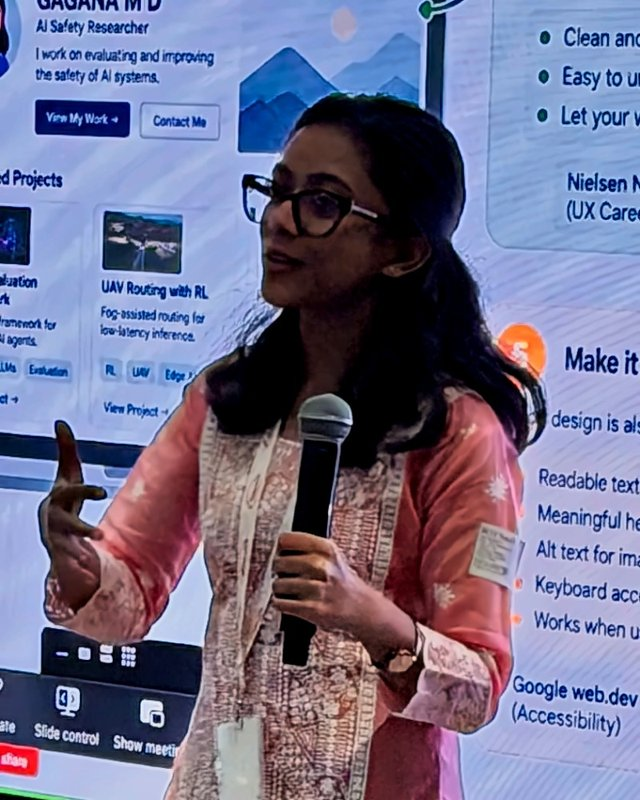
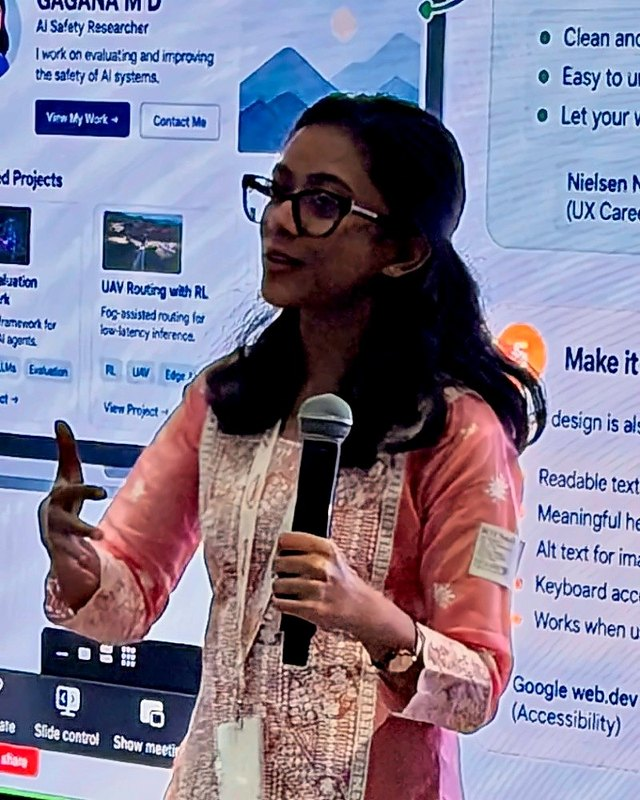
Brighten homepage photo; simplify menu and sub-links
Claude-Session: https://claude.ai/code/session_01CNNU6yGmdt66vtiWTGxDHy

diff --git a/index.html b/index.html
@@ -42,7 +42,6 @@
       <a href="research.html">Research</a>
       <a href="writing.html">Writing</a>
       <a href="about.html">About</a>
-      <a href="cv.pdf">CV</a>
       <span class="nav-sep" aria-hidden="true"></span>
       <a href="speaking.html">Speaking</a>
       <a href="consulting.html">Consulting</a>
@@ -76,7 +75,7 @@
 
   <h3 class="group-title">Research</h3>
   <ul class="roles overview">
-    <li><time>Sep 2026</time><div><strong><a href="detection-is-not-containment.html">Detection Is Not Containment</a> · first author</strong><span>A monitor caught a harmful agent action one step before the last point where it could still be stopped, and meaning-preserving renames broke 4 of 12 decisions. Preregistered, with public code. <a class="text-link" href="detection-is-not-containment.html">Case study</a> · <a class="text-link" href="https://github.com/GaganaMD/detection-is-not-containment">Code</a></span></div></li>
+    <li><time>Sep 2026</time><div><strong><a href="detection-is-not-containment.html">Detection Is Not Containment</a> · first author</strong><span>A monitor caught a harmful agent action one step before the last point where it could still be stopped, and meaning-preserving renames broke 4 of 12 decisions. Preregistered, with public code.</span></div></li>
     <li><time>Oct 2026</time><div><strong><a href="research.html#collusion">Collusion among LLM agents</a> · two team reports</strong><span>Led a covert monitor-swap study (colluding agents never noticed the swap), and ran probing and steering on a pricing LLM that showed no punishment of undercutting.</span></div></li>
     <li><time>May – Oct 2026</time><div><strong><a href="research.html#world-models">LLM-generated world models</a> · PRISM fellowship</strong><span>Main code contributor. 134 of 135 generated games ran, but most didn't encode the intended structure. Accepted at the NeurIPS 2026 NEmo workshop.</span></div></li>
     <li><time>2025</time><div><strong><a href="research.html#biornet">Hyperspectral BiorNet</a> · first author</strong><span>A wavelet framework for hyperspectral unmixing, from before I moved into AI safety. Peer-reviewed, IEEE InGARSS 2025.</span></div></li>
@@ -90,7 +89,7 @@
 
   <h3 class="group-title">Working with others</h3>
   <ul class="roles overview">
-    <li><time>How I work</time><div><strong>Most of my research is team research</strong><span>I co-led a three-person sprint team, led one experiment inside a larger project, supported two other fellowship teams, and wrote a response to the three public reviews of my sprint report. <a class="text-link" href="detection-is-not-containment.html#reviews">See the reviews</a></span></div></li>
+    <li><time>How I work</time><div><strong>Most of my research is team research</strong><span>I co-led a three-person sprint team, led one experiment inside a larger project, supported two other fellowship teams, and wrote a response to the three public reviews of my sprint report.</span></div></li>
   </ul>
 
   <h3 class="group-title">Experience</h3>
@@ -100,7 +99,7 @@
     <li><time>May – Jul 2026</time><div><strong>BaseThesis Labs, Bengaluru</strong><span>AI Safety Researcher: agent evaluation and benchmarking</span></div></li>
     <li><time>Jan – Aug 2025</time><div><strong>Indian Institute of Science, DREAM Lab</strong><span>Research Intern: drone and edge–fog co-scheduling</span></div></li>
   </ul>
-  <p class="section-more"><a href="research.html#publications">All papers and reports</a> · <a href="about.html#experience">Full experience</a> · <a href="consulting.html">Evaluation reviews</a></p>
+  <p class="section-more"><a href="research.html">See all research, papers and code →</a></p>
 </section>
 <section class="contact" aria-labelledby="contact-title"><div class="wrap contact-inner"><p class="eyebrow">Contact</p><h2 id="contact-title">Get in touch</h2><p>I'm looking for a funded research fellowship or research engineering role in empirical AI safety. If you work on agent monitoring, control evaluations or multi-agent safety, I'd like to hear what you're testing. A short note on the problem and where it's stuck is the best first email.</p><div class="contact-actions"><a href="mailto:gaganaaa.dev@gmail.com">gaganaaa.dev@gmail.com <span aria-hidden="true">↗</span></a><a href="https://github.com/GaganaMD">GitHub <span aria-hidden="true">↗</span></a><a href="https://www.linkedin.com/in/gaganamd/">LinkedIn <span aria-hidden="true">↗</span></a><a href="https://orcid.org/0009-0003-2594-1026">ORCID <span aria-hidden="true">↗</span></a></div></div></section>
 </main>
@@ -111,6 +110,7 @@
       <a href="https://github.com/GaganaMD" rel="me noopener">GitHub</a>
       <a href="https://www.linkedin.com/in/gaganamd/" rel="me noopener">LinkedIn</a>
       <a href="https://orcid.org/0009-0003-2594-1026" rel="me noopener">ORCID</a>
+      <a href="cv.pdf">CV</a>
       <a href="#main">Back to top ↑</a>
     </nav>
   </div>

diff --git a/research.html b/research.html
@@ -41,7 +41,6 @@
       <a href="research.html" aria-current="page">Research</a>
       <a href="writing.html">Writing</a>
       <a href="about.html">About</a>
-      <a href="cv.pdf">CV</a>
       <span class="nav-sep" aria-hidden="true"></span>
       <a href="speaking.html">Speaking</a>
       <a href="consulting.html">Consulting</a>
@@ -55,11 +54,9 @@
   <h1 id="page-title">Monitoring, evaluation and what evidence can support.</h1>
   <p class="lede">Most of my work asks what we can justifiably conclude about an AI agent from the evidence we actually have, and whether that evidence arrives in time to act on.</p>
   <nav aria-label="On this page"><ul class="jump">
-    <li><a href="#direction">Direction</a></li>
     <li><a href="#projects-main">Projects</a></li>
     <li><a href="#publications">Papers and reports</a></li>
     <li><a href="#code">Code</a></li>
-    <li><a href="#smaller">Earlier work</a></li>
   </ul></nav>
 </section>
 
@@ -518,6 +515,7 @@
       <a href="https://github.com/GaganaMD" rel="me noopener">GitHub</a>
       <a href="https://www.linkedin.com/in/gaganamd/" rel="me noopener">LinkedIn</a>
       <a href="https://orcid.org/0009-0003-2594-1026" rel="me noopener">ORCID</a>
+      <a href="cv.pdf">CV</a>
       <a href="#main">Back to top ↑</a>
     </nav>
   </div>

diff --git a/detection-is-not-containment.html b/detection-is-not-containment.html
@@ -41,7 +41,6 @@
       <a href="research.html">Research</a>
       <a href="writing.html">Writing</a>
       <a href="about.html">About</a>
-      <a href="cv.pdf">CV</a>
       <span class="nav-sep" aria-hidden="true"></span>
       <a href="speaking.html">Speaking</a>
       <a href="consulting.html">Consulting</a>
@@ -189,6 +188,7 @@ python -m hermes_phase_f.pilot.validate_phase_f</code></pre>
       <a href="https://github.com/GaganaMD" rel="me noopener">GitHub</a>
       <a href="https://www.linkedin.com/in/gaganamd/" rel="me noopener">LinkedIn</a>
       <a href="https://orcid.org/0009-0003-2594-1026" rel="me noopener">ORCID</a>
+      <a href="cv.pdf">CV</a>
       <a href="#main">Back to top ↑</a>
     </nav>
   </div>

diff --git a/about.html b/about.html
@@ -41,7 +41,6 @@
       <a href="research.html">Research</a>
       <a href="writing.html">Writing</a>
       <a href="about.html" aria-current="page">About</a>
-      <a href="cv.pdf">CV</a>
       <span class="nav-sep" aria-hidden="true"></span>
       <a href="speaking.html">Speaking</a>
       <a href="consulting.html">Consulting</a>
@@ -152,6 +151,7 @@
       <a href="https://github.com/GaganaMD" rel="me noopener">GitHub</a>
       <a href="https://www.linkedin.com/in/gaganamd/" rel="me noopener">LinkedIn</a>
       <a href="https://orcid.org/0009-0003-2594-1026" rel="me noopener">ORCID</a>
+      <a href="cv.pdf">CV</a>
       <a href="#main">Back to top ↑</a>
     </nav>
   </div>

diff --git a/consulting.html b/consulting.html
@@ -41,7 +41,6 @@
       <a href="research.html">Research</a>
       <a href="writing.html">Writing</a>
       <a href="about.html">About</a>
-      <a href="cv.pdf">CV</a>
       <span class="nav-sep" aria-hidden="true"></span>
       <a href="speaking.html">Speaking</a>
       <a href="consulting.html" aria-current="page">Consulting</a>
@@ -107,6 +106,7 @@
       <a href="https://github.com/GaganaMD" rel="me noopener">GitHub</a>
       <a href="https://www.linkedin.com/in/gaganamd/" rel="me noopener">LinkedIn</a>
       <a href="https://orcid.org/0009-0003-2594-1026" rel="me noopener">ORCID</a>
+      <a href="cv.pdf">CV</a>
       <a href="#main">Back to top ↑</a>
     </nav>
   </div>

diff --git a/speaking.html b/speaking.html
@@ -41,7 +41,6 @@
       <a href="research.html">Research</a>
       <a href="writing.html">Writing</a>
       <a href="about.html">About</a>
-      <a href="cv.pdf">CV</a>
       <span class="nav-sep" aria-hidden="true"></span>
       <a href="speaking.html" aria-current="page">Speaking</a>
       <a href="consulting.html">Consulting</a>
@@ -140,6 +139,7 @@
       <a href="https://github.com/GaganaMD" rel="me noopener">GitHub</a>
       <a href="https://www.linkedin.com/in/gaganamd/" rel="me noopener">LinkedIn</a>
       <a href="https://orcid.org/0009-0003-2594-1026" rel="me noopener">ORCID</a>
+      <a href="cv.pdf">CV</a>
       <a href="#main">Back to top ↑</a>
     </nav>
   </div>

diff --git a/writing.html b/writing.html
@@ -41,7 +41,6 @@
       <a href="research.html">Research</a>
       <a href="writing.html" aria-current="page">Writing</a>
       <a href="about.html">About</a>
-      <a href="cv.pdf">CV</a>
       <span class="nav-sep" aria-hidden="true"></span>
       <a href="speaking.html">Speaking</a>
       <a href="consulting.html">Consulting</a>
@@ -131,6 +130,7 @@
       <a href="https://github.com/GaganaMD" rel="me noopener">GitHub</a>
       <a href="https://www.linkedin.com/in/gaganamd/" rel="me noopener">LinkedIn</a>
       <a href="https://orcid.org/0009-0003-2594-1026" rel="me noopener">ORCID</a>
+      <a href="cv.pdf">CV</a>
       <a href="#main">Back to top ↑</a>
     </nav>
   </div>

diff --git a/404.html b/404.html
@@ -43,7 +43,6 @@
       <a href="research.html">Research</a>
       <a href="writing.html">Writing</a>
       <a href="about.html">About</a>
-      <a href="cv.pdf">CV</a>
       <span class="nav-sep" aria-hidden="true"></span>
       <a href="speaking.html">Speaking</a>
       <a href="consulting.html">Consulting</a>
@@ -60,6 +59,7 @@
       <a href="https://github.com/GaganaMD" rel="me noopener">GitHub</a>
       <a href="https://www.linkedin.com/in/gaganamd/" rel="me noopener">LinkedIn</a>
       <a href="https://orcid.org/0009-0003-2594-1026" rel="me noopener">ORCID</a>
+      <a href="cv.pdf">CV</a>
       <a href="#main">Back to top ↑</a>
     </nav>
   </div>

diff --git a/projects.html b/projects.html
@@ -43,7 +43,6 @@
       <a href="research.html">Research</a>
       <a href="writing.html">Writing</a>
       <a href="about.html">About</a>
-      <a href="cv.pdf">CV</a>
       <span class="nav-sep" aria-hidden="true"></span>
       <a href="speaking.html">Speaking</a>
       <a href="consulting.html">Consulting</a>
@@ -60,6 +59,7 @@
       <a href="https://github.com/GaganaMD" rel="me noopener">GitHub</a>
       <a href="https://www.linkedin.com/in/gaganamd/" rel="me noopener">LinkedIn</a>
       <a href="https://orcid.org/0009-0003-2594-1026" rel="me noopener">ORCID</a>
+      <a href="cv.pdf">CV</a>
       <a href="#main">Back to top ↑</a>
     </nav>
   </div>
